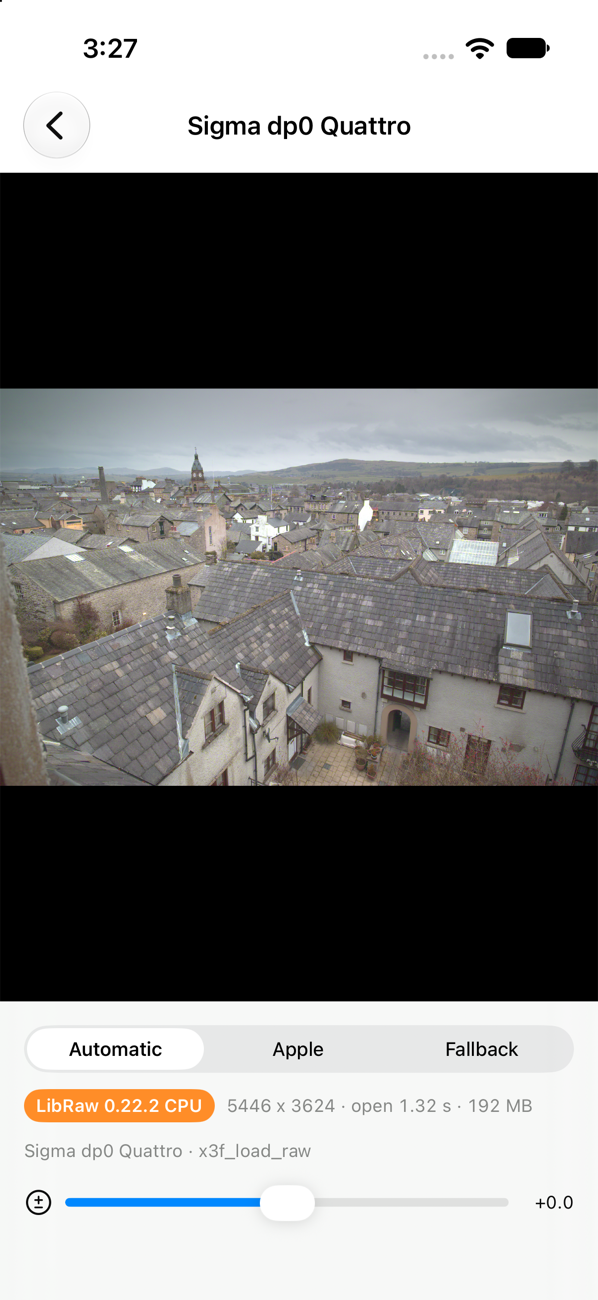
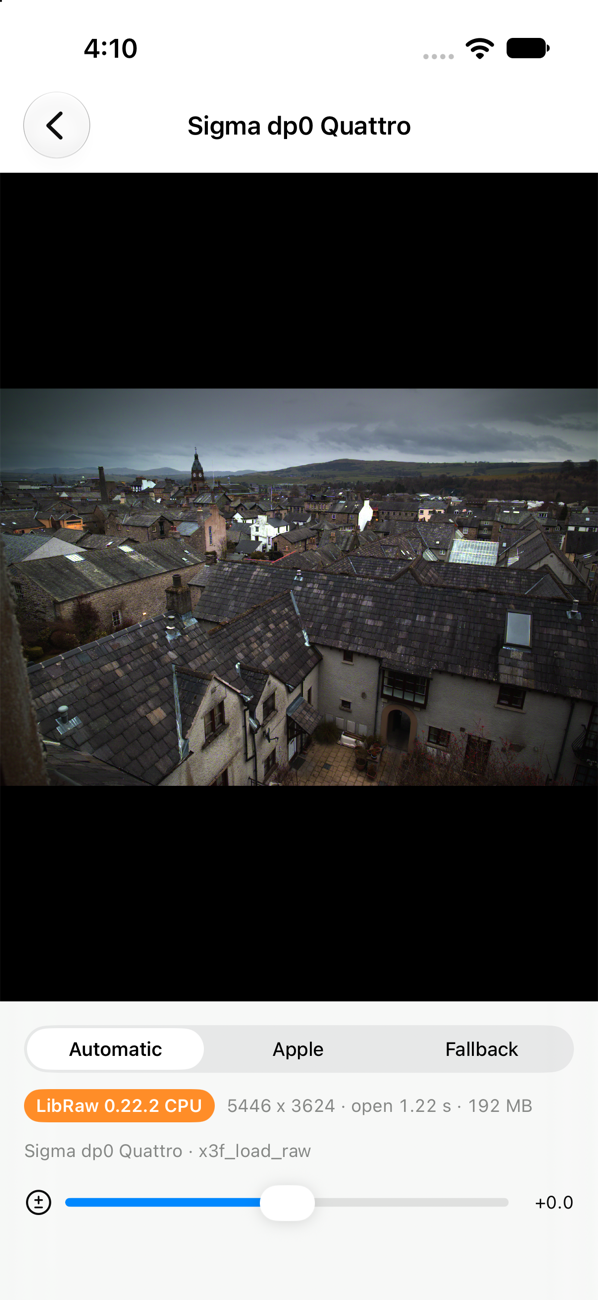
Refresh README screenshots and fix an overflowing command
The gallery screenshot predated the Olympus sample's corrected label, and
one device-benchmark command ran past the edge of its code block.

diff --git a/README.md b/README.md
@@ -83,9 +83,13 @@ xcodebuild test -scheme RawInputKit-Package -destination 'platform=iOS Simulator
 code of the Apple developer team that signs the build; a free personal team works.
 
 ```sh
-Scripts/device-tests.sh <device-udid> <team-id>     # the same 32 tests, on the device
-Scripts/device-bench.py <device-udid>               # timings and peak memory: 15 app launches
-Scripts/device-bench.py <device-udid> --limit 0 --runs 3   # the full set behind the tables below: 102 launches
+# The same 32 tests, on the device.
+Scripts/device-tests.sh <device-udid> <team-id>
+
+# Timings and peak memory. 15 app launches by default;
+# the second form is the full set behind the tables below, 102 launches.
+Scripts/device-bench.py <device-udid>
+Scripts/device-bench.py <device-udid> --limit 0 --runs 3
 ```
 
 The tests run inside the demo app, because a device cannot run a Swift package's tests
